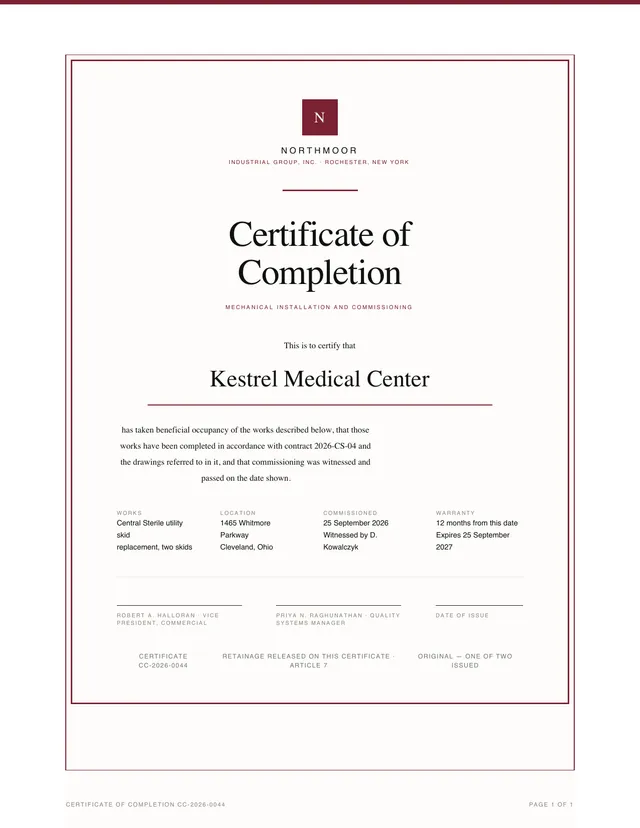
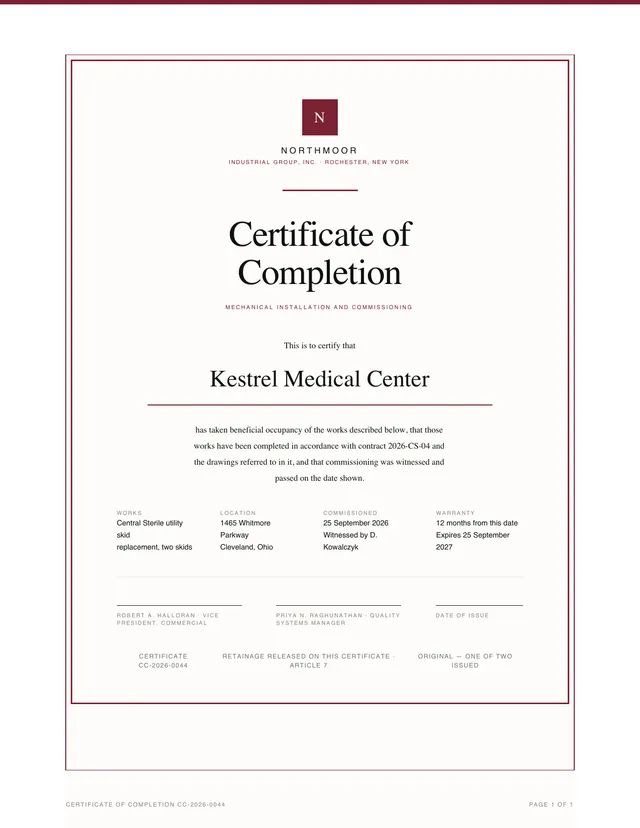
align-items center/flex-end: the offset consults max-width, like wrapping already did
A max-width'd auto block inside an align-items: center flex column (the
centered-certificate idiom: .cert-inner { align-items: center } with
.cert-body { max-width: 247.5pt }) sat flush left while its lines
wrapped at the clamp. The centering arm computed its offset from the
UNCLAMPED intrinsic width — a long paragraph's intrinsic width is the
full measure, so (available - w)/2 degenerated to zero — while
layout_node consulted the clamp for line breaking. Computed at one
site, unconsulted at the other; the auto-margin arm three lines up
already clamped correctly.

The used width is now min(intrinsic, max-width).max(min-width) for
both the offset and the layout width, in the Center and FlexEnd arms.
Pin renders the idiom and asserts the block starts at
margin + (available - clamp)/2, not at the margin. Byte-wall vs main:
IDENTICAL (no standing fixture uses the idiom); gallery blast radius
is exactly one template — the certificate, whose body now centers.

Found by Dan on the landing preview PDFs ("the paragraph is left
justified"); the stale-asset regen surfaced that the defect was live,
not historical.

Claude-Session: https://claude.ai/code/session_019eLgo72VYmQp3kNz9PZDHs

Changed region(s): [[0.1875, 0.5133, 0.6875, 0.6039]]

diff --git a/engine/tests/integration.rs b/engine/tests/integration.rs
@@ -13169,3 +13169,42 @@ fn pdfua2_link_children_downgrade_to_span() {
     let doc = struct_elem_body(&text, "/S /Document ");
     assert!(!doc.contains("/S /Span"), "no Span child of Document");
 }
+
+#[test]
+fn align_items_center_respects_max_width() {
+    // A max-width'd auto block inside an align-items: center column is the
+    // classic centered-certificate idiom. The centering offset must use the
+    // CLAMPED width: intrinsic width of a long paragraph is the full
+    // measure, so the unclamped offset degenerated to zero and the block
+    // sat flush left while its lines wrapped at max-width.
+    let json = r##"{ "children": [
+        { "kind": { "type": "View" }, "style": { "width": { "Pt": 400 }, "alignItems": "Center", "flexDirection": "Column" }, "children": [
+            { "kind": { "type": "Text", "content": "a long paragraph of certificate prose that wraps to several lines at the clamped measure" },
+              "style": { "maxWidth": { "Pt": 200 }, "fontFamily": "Noto Sans" }, "children": [] }
+        ] }
+    ], "metadata": { "title": "Center Doc" } }"##;
+    let (_, layout, _) = forme::render_with_layout(&serde_json::from_str(json).unwrap()).unwrap();
+    let page = &layout.pages[0];
+    fn find_text(els: &[forme::layout::ElementInfo]) -> Option<(f64, f64)> {
+        for e in els {
+            if e.kind == "Text" {
+                return Some((e.x, e.width));
+            }
+            if let Some(r) = find_text(&e.children) {
+                return Some(r);
+            }
+        }
+        None
+    }
+    let (x, w) = find_text(&page.elements).expect("text element");
+    assert!(w <= 200.5, "wraps at the clamp: {w}");
+    // The centering offset uses the CLAMPED layout width (200), not the
+    // block's natural width: content starts at the 54pt page margin, so
+    // the block sits at 54 + (400 - 200)/2 = 154. The broken behavior
+    // put it at 54 (offset degenerated to zero).
+    let expected = 54.0 + (400.0 - 200.0) / 2.0;
+    assert!(
+        (x - expected).abs() < 1.0,
+        "block centered: x={x}, expected≈{expected} (w={w})"
+    );
+}

diff --git a/engine/src/layout/mod.rs b/engine/src/layout/mod.rs
@@ -2615,10 +2615,20 @@ impl LayoutEngine {
                         let intrinsic = self
                             .measure_intrinsic_width(child, &child_style, font_context)
                             .min(available_width);
+                        // max-width participates in the used width, exactly
+                        // as in the auto-margin arm above: a long paragraph's
+                        // intrinsic width is the full measure, so without the
+                        // clamp the centering offset degenerated to zero and
+                        // a max-width'd block sat flush left while its LINES
+                        // wrapped at max-width (layout_node consults the
+                        // clamp for wrapping; this offset must consult it
+                        // too).
                         let w = match child_style.width {
                             SizeConstraint::Fixed(fw) => fw,
                             SizeConstraint::Auto => intrinsic,
-                        };
+                        }
+                        .min(child_style.max_width)
+                        .max(child_style.min_width);
                         let lw = if has_explicit_width {
                             available_width
                         } else {
